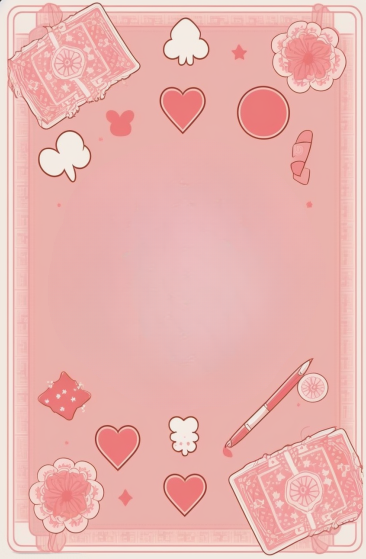
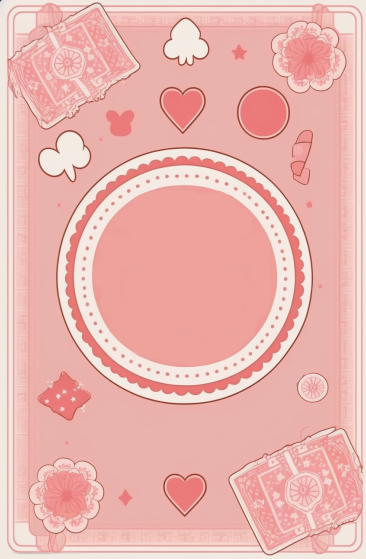
fix cards ratio, add front for card, fix styles, fix header font size, fix player roles style

Changed region(s): [[0.1503, 0.2433, 0.8716, 0.8211], [0.2404, 0.7603, 0.3907, 0.8515]]

diff --git a/frontend/src/components/table/Card.vue b/frontend/src/components/table/Card.vue
@@ -1,30 +1,30 @@
 <template>
-    <div class='h-[90%] cursor-pointer z-40 active:mb-1 rounded-md border border-black'>
+    <div class='cursor-pointer z-40 rounded-md aspect-card'>
         <div v-if="isVisible"
-            class='rounded-md p-3 w-full font-secondary h-full border-2 border-white bg-front bg-center bg-cover mb-3 brightness-90 shadow-lg shadow-bg3 hover:shadow-xl hover:shadow-bg3 hover:brightness-100'
+            class='w-full h-full rounded-md font-secondary border border-black bg-front bg-center bg-cover mb-3 brightness-90 shadow-lg shadow-bg3 hover:shadow-xl hover:shadow-bg3 active:brightness-110 hover:brightness-100'
             v-on:click="selectCard">
-            <div
-                class='w-full h-full rounded-lg flex flex-col items-center justify-center z-50'>
+            <div class='w-full h-full rounded-lg flex flex-col items-center justify-center z-50'>
                 <div v-if="isImageCard" class='flex items-center justify-center'>
                     <img v-if="isCoffeCard" src="../../assets/coffe.png">
                     <img v-else src="../../assets/questionmark.png">
                 </div>
-                <div v-else class='flex justify-center items-center flex-col w-full'>
-                    <p class='text-3xl'>{{ data.value }}</p>
+                <div v-else class='flex justify-center items-center flex-col h-full w-full gap-0 relative'>
+                    <p class='text-3xl text-white font-main -m-1 active:brightness-110'>{{ data.value }}</p>
                     <div v-if="isUserSelection" class='text-lg flex justify-center items-center w-full font-extralight'>
-                        <p class='text-center font-medium'>{{ data.unit }}</p>
+                        <p class='text-center text-white font-medium font-main -m-1'>{{ data.unit }}</p>
                     </div>
-                    <div v-else class='text-lg relative cursor-pointer grid grid-cols-3 items-center w-full font-extralight'
+                    <div v-else
+                        class='text-lg text-white cursor-pointer flex justify-center items-center font-extralight -m-1 gap-2 w-full'
                         v-on:click="toggleUnit" @click.stop>
-                        <p class='scale-x-[-1] text-sm  hover:text-lg active:text-xl'>▶</p>
+                        <p class='scale-x-[-1] text-sm  hover:text-lg active:text-xl w-3'>▶</p>
                         <p class='text-center font-medium'>{{ unit }}</p>
-                        <p class='text-sm hover:text-lg active:text-xl'>▶</p>
+                        <p class='text-sm hover:text-lg active:text-xl w-3'>▶</p>
                     </div>
                 </div>
             </div>
         </div>
         <div v-else
-            class='rounded-md w-full h-full bg-revers bg-center bg-cover hover:shadow-md hover:shadow-black active:shadow-xl active:shadow-black'>
+            class='rounded-md border border-black w-full h-full bg-revers bg-center bg-cover hover:shadow-md hover:shadow-black active:shadow-xl active:shadow-black'>
         </div>
     </div>
 </template>
@@ -40,7 +40,8 @@ export default {
         }
     },
     methods: {
-        toggleUnit() {
+        toggleUnit(event) {
+            event.stopPropagation()
             if (this.unit === "h") {
                 this.unit = "d"
             } else {

diff --git a/frontend/tailwind.config.js b/frontend/tailwind.config.js
@@ -7,22 +7,20 @@ module.exports = {
   theme: {
     screens: {
       'sm': '640px',
-      // => @media (min-width: 640px) { ... }
 
       'md': '768px',
-      // => @media (min-width: 768px) { ... }
 
       'lg': '1024px',
-      // => @media (min-width: 1024px) { ... }
 
       'xl': '1280px',
-      // => @media (min-width: 1280px) { ... }
 
       '2xl': '1550px',
-      // => @media (min-width: 1536px) { ... }
       'cutom': '1550px'
     },
   extend: {
+    aspectRatio: {
+      'card': '2.5/3.5'
+    },
     colors: {
       'bg1': '#FFDEE9',
       'bg2': '#B5FFFC',
@@ -30,9 +28,9 @@ module.exports = {
     },
     gridTemplateColumns: {
       inputGrid: '1fr 3fr',
-      pokerMain: '9fr 1fr',
-      pokerMainSmaller: '9fr 2fr',
-      pokerMainEvenSmaller: '9fr 3fr',
+      pokerMain: '7fr 1fr',
+      pokerMainSmaller: '7fr 2fr',
+      pokerMainEvenSmaller: '7fr 3fr',
       deck: 'repeat(11, minmax(0, 1fr))',
       '3': 'repeat(3, minmax(0, 1fr))'
     },

diff --git a/frontend/src/components/table/GameTable.vue b/frontend/src/components/table/GameTable.vue
@@ -1,8 +1,8 @@
 <template>
     <div class='flex items-center flex-wrap justify-center gap-4'>
-        <div v-for="player in getPlayers" :key="player.uid" class='flex flex-col items-center'>
+        <div v-for="player in getPlayers" :key="player.uid" class='flex flex-col items-center w-1/12 h-2/6 aspect-card'>
             <Card :data="player.selectedCard" :isVisible="showCards" :isSelected="player.selectedCard != null"
-                :isUserSelection="true" class='w-[6rem] h-[9rem]' />
+                :isUserSelection="true" class='w-full h-full'/>
             <p>{{ player.name }}</p>
         </div>
     </div>

diff --git a/frontend/src/components/Player.vue b/frontend/src/components/Player.vue
@@ -6,7 +6,7 @@
         <div class='relative' :class="{ ['blur-[1px]']: getPlayer.isObserver }">
             <p class='text-xl'> {{ getPlayer.name }} </p>
             <span class='font-secondary font-extralight text-[10px] absolute -top-2'>{{ getPlayer.role }}</span>
-            <div class='grid grid-cols-2 p-1'>
+            <div class='p-1'>
                 <Checkbox label="Senpai (Admin)" :selected="getPlayer.isAdmin" @select="setAdmin"/>
                 <Checkbox label="Observer-chan" :selected="getPlayer.isObserver" @select="setObserver" />
             </div>

diff --git a/frontend/src/components/Header.vue b/frontend/src/components/Header.vue
@@ -1,7 +1,7 @@
 <template>
     <header class='flex flex-col items-center justify-center mt-5'>
         <div>
-            <h1 class='font-main text-[3vw] text-center'>UwUstimates</h1>
+            <h1 class='font-main text-[2vw] text-center'>UwUstimates</h1>
             <h2 class='font-main text-sm underline text-center'>Cutest Agile Planning Poker</h2>
         </div>
         <img class='w-40 scale-75 h-auto align-middle mt-5' src="../assets/uwustimates-bg-mlg.png" alt="">
